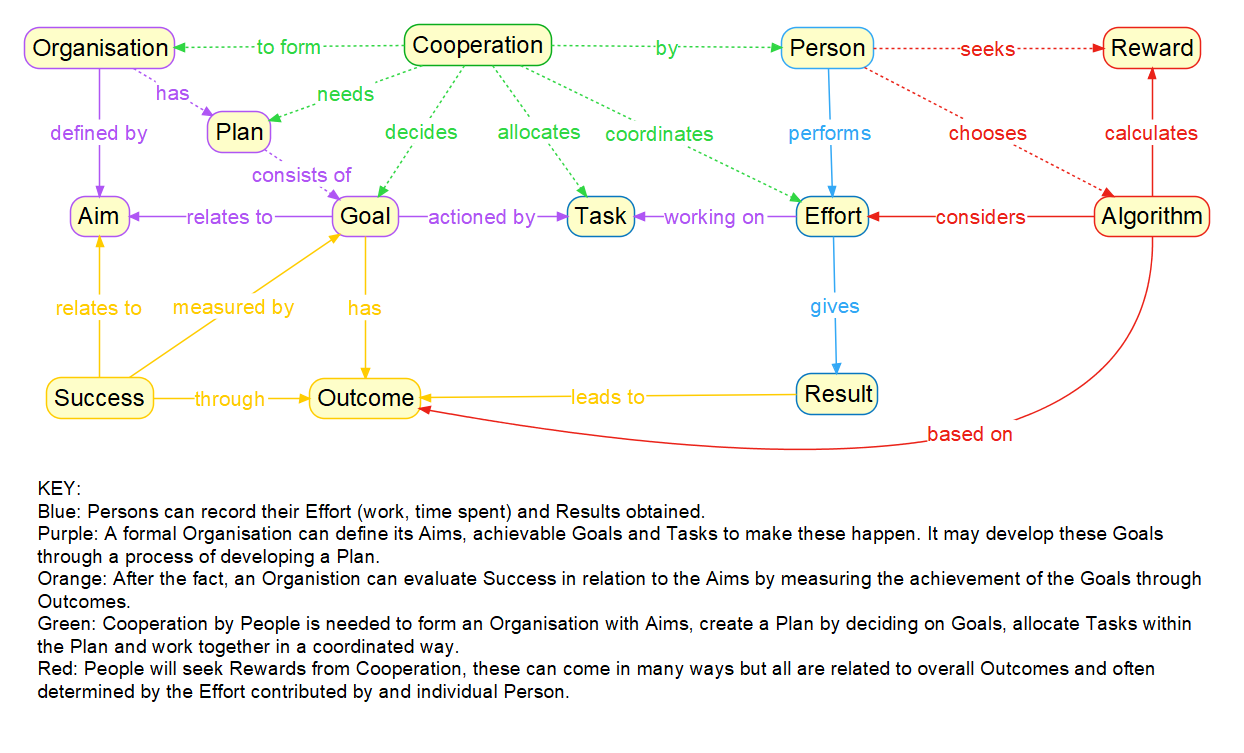
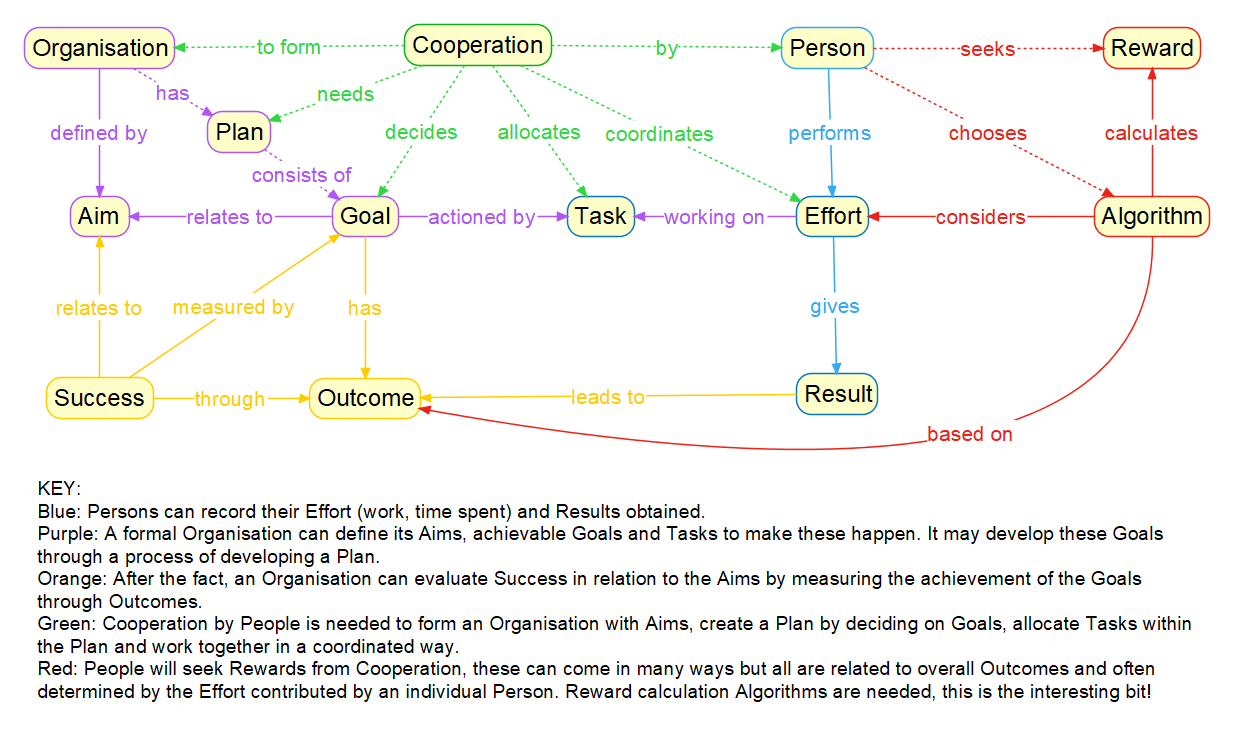
conceptual model

Changed region(s): [[0.3055, 0.8858, 0.9164, 0.9469], [0.2444, 0.7636, 0.9775, 0.7942], [0.0305, 0.7942, 0.1527, 0.8247]]

diff --git a/module-base/documents/.~cooperation.vue b/module-base/documents/.~cooperation.vue
@@ -1,14 +1,14 @@
 <!-- Tufts VUE 3.2.2 concept-map (cooperation.vue) 2017-09-11 -->
 <!-- Tufts VUE: http://vue.tufts.edu/ -->
 <!-- Do Not Remove: VUE mapping @version(1.1) jar:file:/D:/apps/VUE/VUE.jar!/tufts/vue/resources/lw_mapping_1_1.xml -->
-<!-- Do Not Remove: Saved date Mon Sep 11 10:49:37 EST 2017 by stevec on platform Windows 8 6.2 in JVM 1.7.0_21-b11 -->
+<!-- Do Not Remove: Saved date Mon Sep 11 10:53:13 EST 2017 by stevec on platform Windows 8 6.2 in JVM 1.7.0_21-b11 -->
 <!-- Do Not Remove: Saving version @(#)VUE: built May 23 2013 at 2146 by tomadm on Linux 2.6.18-348.2.1.el5 i386 JVM 1.7.0_21-b11(bits=32) -->
 <?xml version="1.0" encoding="US-ASCII"?>
 <LW-MAP xmlns:xsi="http://www.w3.org/2001/XMLSchema-instance"
     xsi:noNamespaceSchemaLocation="none" ID="0" label="cooperation.vue"
     created="1504828659801" x="0.0" y="0.0" width="1.4E-45"
     height="1.4E-45" strokeWidth="0.0" autoSized="false">
-    <resource referenceCreated="1505090977701" size="31302"
+    <resource referenceCreated="1505091193435" size="31302"
         spec="D:\git\cooperation\module-base\documents\cooperation.vue"
         type="1" xsi:type="URLResource">
         <title>cooperation.vue</title>
@@ -464,7 +464,7 @@
         <ID2 xsi:type="node">54</ID2>
     </child>
     <child ID="65"
-        label="KEY:&#xa;    &#xa;    &#xa;      Blue: Persons can record their Effort (work, time spent) and Results &#xa;      obtained.&#xa;    &#xa;    &#xa;      Purple: A formal Organisation can define its Aims, achievable Goals and &#xa;      Tasks to make these happen. It may develop these Goals through a process &#xa;      of developing a Plan.&#xa;    &#xa;    &#xa;      Orange: After the fact, an Organistion can evaluate Success in relation &#xa;      to the Aims by measuring the achievement of the Goals through Outcomes.&#xa;    &#xa;    &#xa;      Green: Cooperation by People is needed to form an Organisation with &#xa;      Aims, create a Plan by deciding on Goals, allocate Tasks within the Plan &#xa;      and work together in a coordinated way. &#xa;    &#xa;    &#xa;      Red: People will seek Rewards from Cooperation, these can come in many &#xa;      ways but all are related to overall Outcomes and often determined by the &#xa;      Effort contributed by and individual Person."
+        label="KEY:&#xa;    &#xa;    &#xa;      Blue: Persons can record their Effort (work, time spent) and Results &#xa;      obtained.&#xa;    &#xa;    &#xa;      Purple: A formal Organisation can define its Aims, achievable Goals and &#xa;      Tasks to make these happen. It may develop these Goals through a process &#xa;      of developing a Plan.&#xa;    &#xa;    &#xa;      Orange: After the fact, an Organisation can evaluate Success in relation &#xa;      to the Aims by measuring the achievement of the Goals through Outcomes.&#xa;    &#xa;    &#xa;      Green: Cooperation by People is needed to form an Organisation with &#xa;      Aims, create a Plan by deciding on Goals, allocate Tasks within the Plan &#xa;      and work together in a coordinated way. &#xa;    &#xa;    &#xa;      Red: People will seek Rewards from Cooperation, these can come in many &#xa;      ways but all are related to overall Outcomes and often determined by the &#xa;      Effort contributed by an individual Person. Reward calculation &#xa;      Algorithms are needed, this is the interesting bit!"
         layerID="1" created="1505088241138" x="200.29999" y="402.49884"
         width="788.0" height="167.0" strokeWidth="0.0" autoSized="false" xsi:type="text">
         <strokeColor>#404040</strokeColor>
@@ -497,7 +497,7 @@
       of developing a Plan.
     &lt;/p&gt;
     &lt;p style="color: #000000" color="#000000"&gt;
-      Orange: After the fact, an Organistion can evaluate Success in relation 
+      Orange: After the fact, an Organisation can evaluate Success in relation 
       to the Aims by measuring the achievement of the Goals through Outcomes.
     &lt;/p&gt;
     &lt;p style="color: #000000" color="#000000"&gt;
@@ -508,7 +508,8 @@
     &lt;p style="color: #000000" color="#000000"&gt;
       Red: People will seek Rewards from Cooperation, these can come in many 
       ways but all are related to overall Outcomes and often determined by the 
-      Effort contributed by and individual Person.
+      Effort contributed by an individual Person. Reward calculation 
+      Algorithms are needed, this is the interesting bit!
     &lt;/p&gt;
     &lt;p style="color: #000000" color="#000000"&gt;
       
@@ -528,7 +529,7 @@
       of developing a Plan.
     
     
-      Orange: After the fact, an Organistion can evaluate Success in relation 
+      Orange: After the fact, an Organisation can evaluate Success in relation 
       to the Aims by measuring the achievement of the Goals through Outcomes.
     
     
@@ -539,7 +540,8 @@
     
       Red: People will seek Rewards from Cooperation, these can come in many 
       ways but all are related to overall Outcomes and often determined by the 
-      Effort contributed by and individual Person.</label>
+      Effort contributed by an individual Person. Reward calculation 
+      Algorithms are needed, this is the interesting bit!</label>
     </child>
     <layer ID="1" label="Layer 1" created="1504828659811" x="0.0"
         y="0.0" width="1.4E-45" height="1.4E-45" strokeWidth="0.0" autoSized="false">

diff --git a/module-base/documents/cooperation.vue b/module-base/documents/cooperation.vue
@@ -1,14 +1,14 @@
 <!-- Tufts VUE 3.2.2 concept-map (cooperation.vue) 2017-09-11 -->
 <!-- Tufts VUE: http://vue.tufts.edu/ -->
 <!-- Do Not Remove: VUE mapping @version(1.1) jar:file:/D:/apps/VUE/VUE.jar!/tufts/vue/resources/lw_mapping_1_1.xml -->
-<!-- Do Not Remove: Saved date Mon Sep 11 10:53:13 EST 2017 by stevec on platform Windows 8 6.2 in JVM 1.7.0_21-b11 -->
+<!-- Do Not Remove: Saved date Mon Sep 11 11:05:56 EST 2017 by stevec on platform Windows 8 6.2 in JVM 1.7.0_21-b11 -->
 <!-- Do Not Remove: Saving version @(#)VUE: built May 23 2013 at 2146 by tomadm on Linux 2.6.18-348.2.1.el5 i386 JVM 1.7.0_21-b11(bits=32) -->
 <?xml version="1.0" encoding="US-ASCII"?>
 <LW-MAP xmlns:xsi="http://www.w3.org/2001/XMLSchema-instance"
     xsi:noNamespaceSchemaLocation="none" ID="0" label="cooperation.vue"
     created="1504828659801" x="0.0" y="0.0" width="1.4E-45"
     height="1.4E-45" strokeWidth="0.0" autoSized="false">
-    <resource referenceCreated="1505091193435" size="31302"
+    <resource referenceCreated="1505091956098" size="31540"
         spec="D:\git\cooperation\module-base\documents\cooperation.vue"
         type="1" xsi:type="URLResource">
         <title>cooperation.vue</title>
